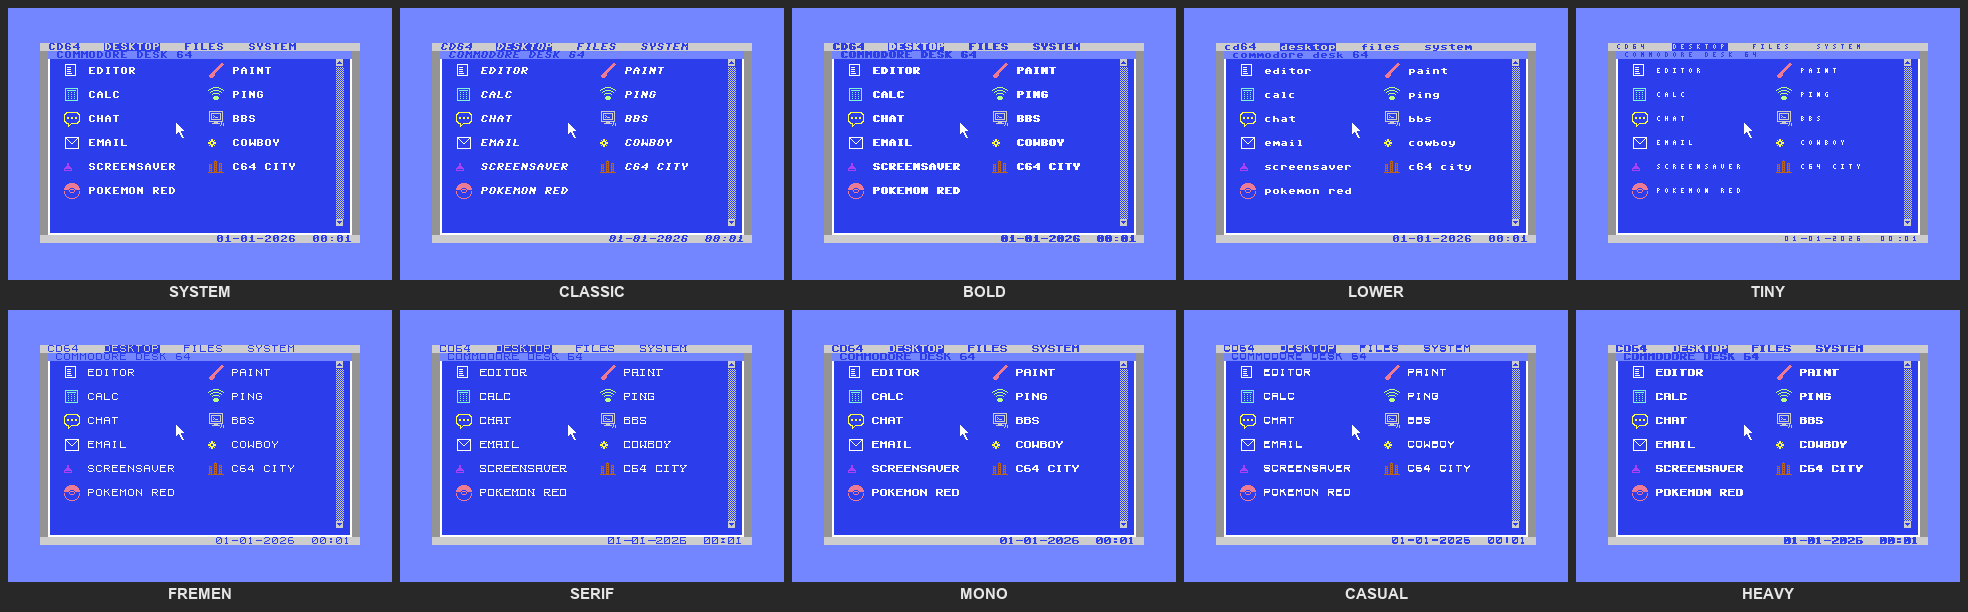
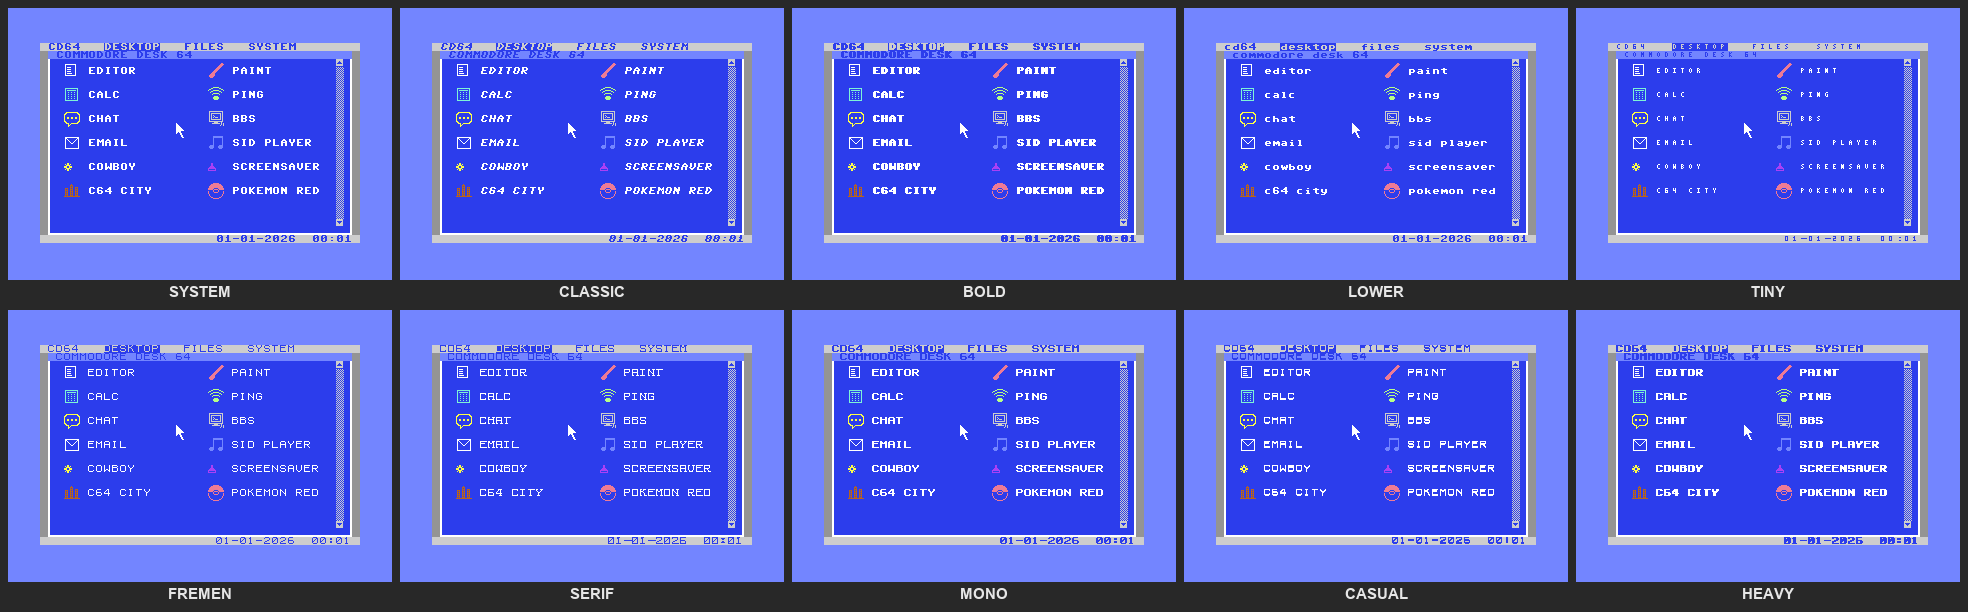
README: SID Player, sid\ folder, D71/D64 layout; screenshots updated

diff --git a/sid/README.md b/sid/README.md
@@ -1,0 +1,9 @@
+# SID music
+
+Put `.sid` files (PSID) here. `build_disk.bat` writes every `sid\*.sid` to the
+D71, and to the D64 while there is room. The **SID PLAYER** on the desktop
+lists and plays them.
+
+The `.sid` files themselves are not in git (`/sid/*.sid` in `.gitignore`):
+they are music by other people. A large free collection is the High Voltage
+SID Collection (HVSC), <https://www.hvsc.c64.org>.
